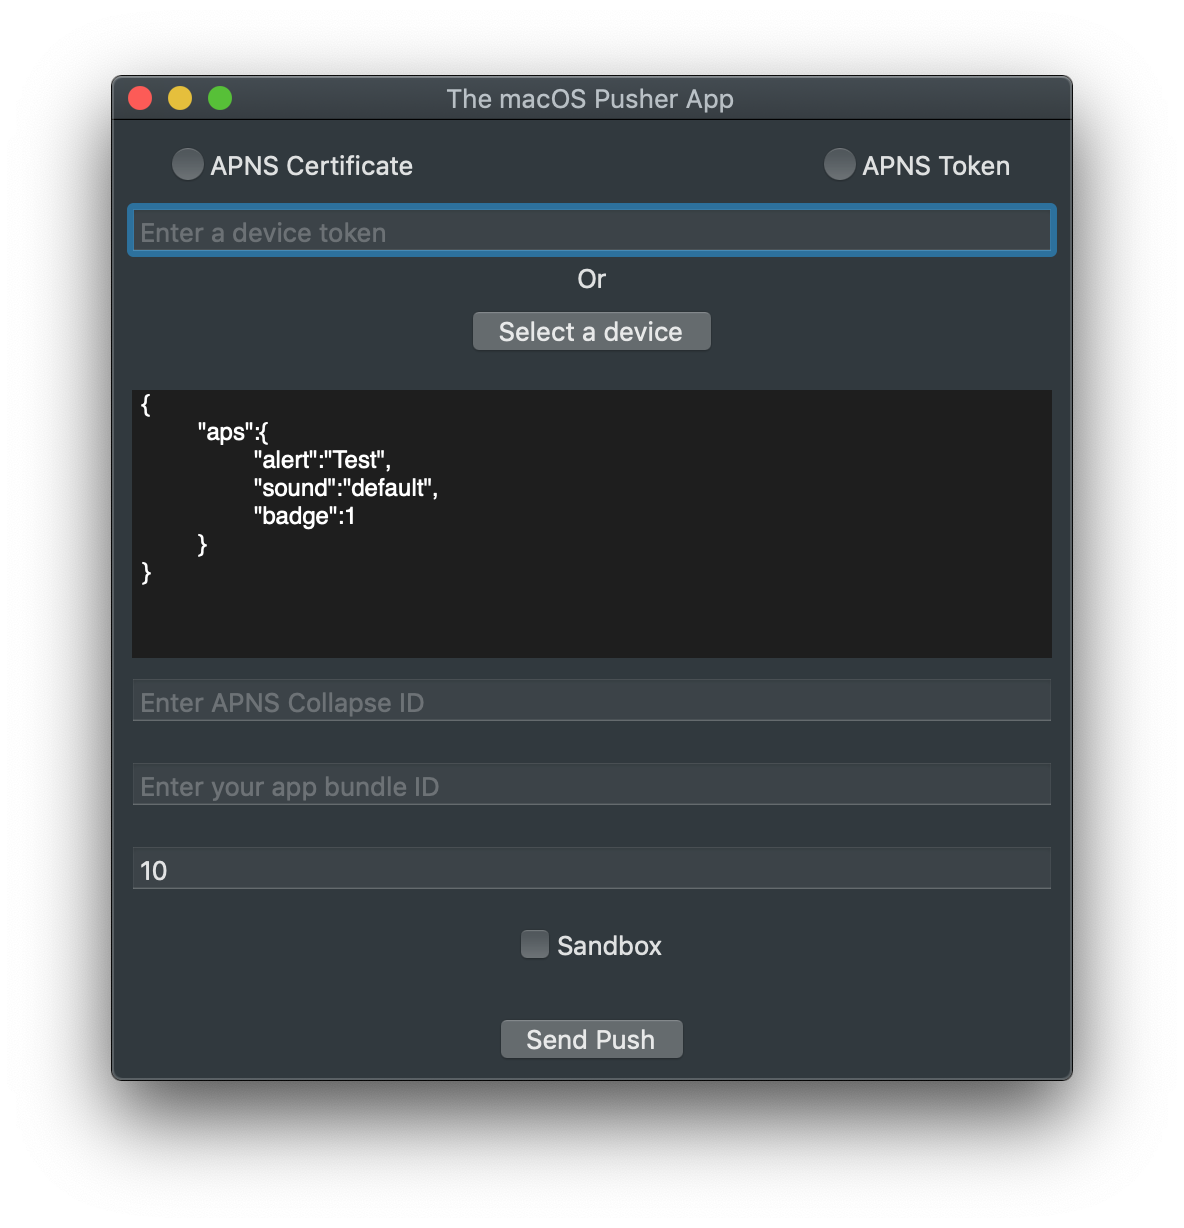
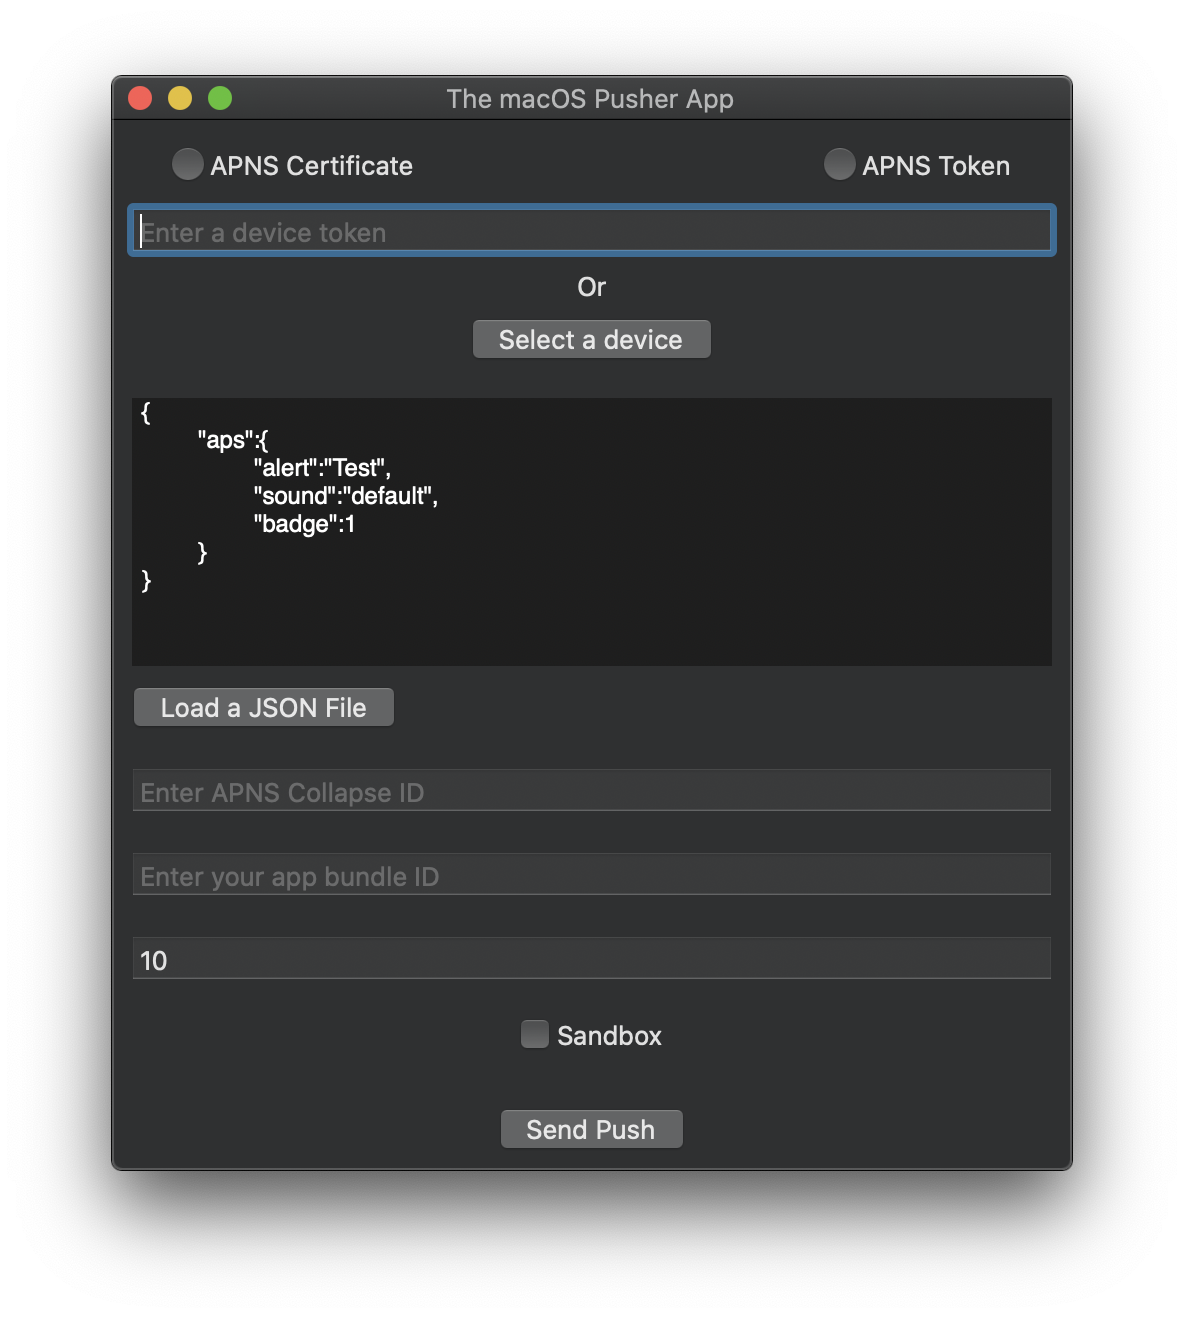
Load a JSON file + Release 1.1.0

Changed region(s): [[0.0938, 0.0309, 0.9062, 0.4332], [0.0938, 0.4951, 0.875, 0.7427], [0.0938, 0.7427, 0.9062, 0.8974]]

diff --git a/PusherMainView/PusherMainView/PusherViewController.swift b/PusherMainView/PusherMainView/PusherViewController.swift
@@ -10,6 +10,7 @@ public final class PusherViewController: NSViewController {
     @IBOutlet private var sandBoxCheckBox: NSButton!
     @IBOutlet private var apnsCertificateRadioButton: NSButton!
     @IBOutlet private var apnsAuthTokenRadioButton: NSButton!
+    @IBOutlet private var loadJSONFileButton: NSButton!
     private let pusherStore: PusherInteracting
     
     // MARK: - Init
@@ -70,6 +71,16 @@ public final class PusherViewController: NSViewController {
     
     @IBAction func chooseAuthenticationToken(_ sender: Any) {
         pusherStore.dispatch(actionType: .chooseAuthToken(fromViewController: self))
+    }
+    
+    @IBAction func loadJSONFile(_ sender: Any) {
+        pusherStore.dispatch(actionType: .browsingFiles(fromViewController: self, completion: { jsonFileURL in
+            guard let jsonString = try? String(contentsOf: jsonFileURL, encoding: .utf8) else {
+                self.pusherStore.dispatch(actionType: .alert(message: "JSON file is incorrect", fromWindow: self.view.window))
+                return
+            }
+            self.payloadTextView.string = jsonString
+        }))
     }
     
     @IBAction func sendPush(_ sender: Any) {

diff --git a/CHANGELOG.md b/CHANGELOG.md
@@ -1,8 +1,23 @@
-# The macOS Pusher app Changelog
+# The macOS Push Tester app Changelog
 
 All notable changes to this project will be documented in this file.
 The format is based on [Keep a Changelog](http://keepachangelog.com/)
 and this project adheres to [Semantic Versioning](http://semver.org/).
+
+## [1.1.0] - 2021-06-22
+- Load a JSON File
+- Update README with mention of UDP service
+- Update README for iOS 14 info.plist Requirements
+- Remove code sign identity so it can be built and run on any mac
+- Fastlane must run even if Xcode version is not 10.3
+- Pusher Reducer
+
+## [1.0.1] - 2019-12-03
+- Introduce newState function
+- Memory Leaks fixes + subcribe/unsubscribe functions in PushInteractor class
+- Global use of dispatch function from Push Interactor
+- Bugfix when the user open the Authorization Token UI
+- APNSSecIdentity refactoring and simplication
 
 ## [1.0.0] - 2019-11-27
 - Project init

diff --git a/README.md b/README.md
@@ -3,7 +3,7 @@
 ![Compatibility](https://img.shields.io/badge/Swift-5.0-orange.svg) 
 ![License](https://img.shields.io/badge/License-MIT-lightgrey.svg) 
 
-# The macOS Pusher App
+# The macOS Push Tester App
 
 The macOS Pusher App allows you to send push notifications through APNS (Apple Push Notification Service) and receive them on a device.
 
